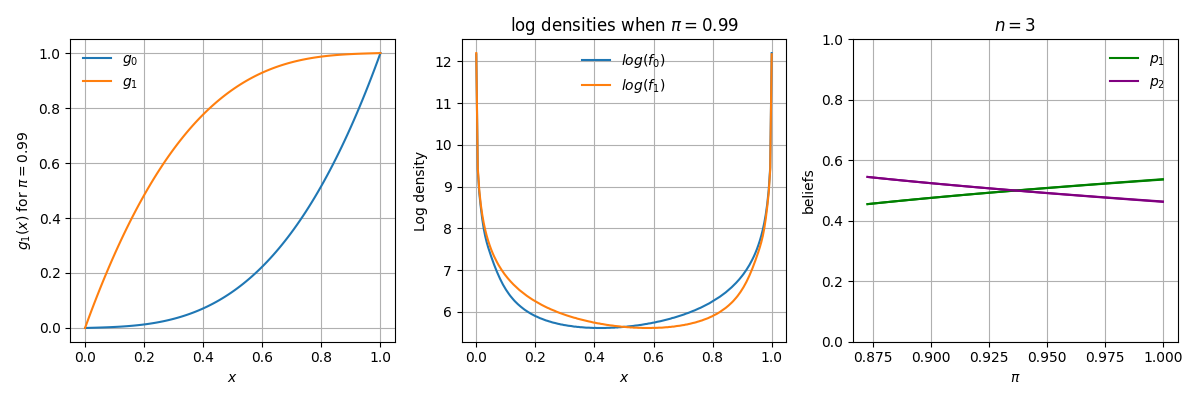
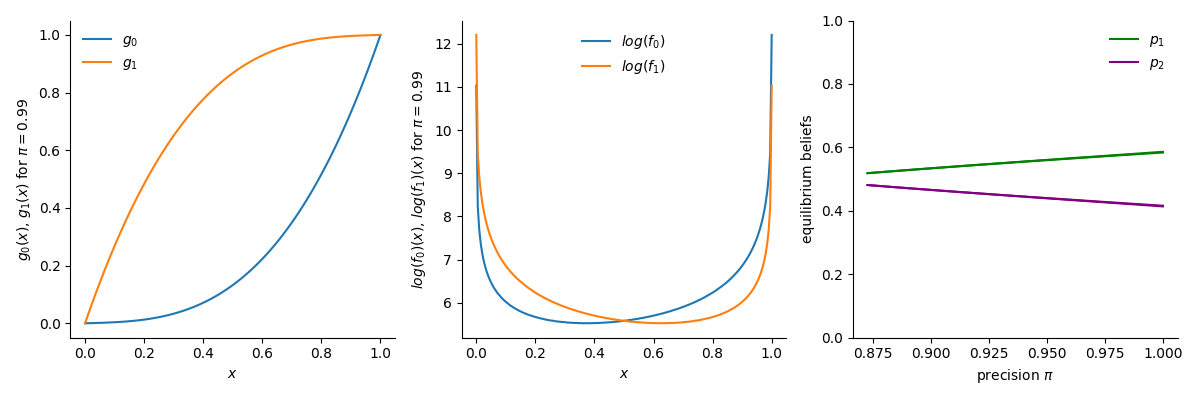
picture changes

diff --git a/PAPER equilibria n=3.py b/PAPER equilibria n=3.py
@@ -57,7 +57,7 @@ def payoffs(pi, alpha, beliefs):
     return payoffs
 
 equilibria = {pi:{alpha:payoffs(pi, alpha, beliefs[pi][alpha]) for alpha in profiles[pi]} for pi in profiles if pi < 1}
-test_cs = [0, 0.1]
+test_cs = [0, 0.1, 0.3]
 payoff = {c:{} for c in test_cs}
 for c in test_cs:
     for pi in equilibria:
@@ -79,11 +79,11 @@ for region in regions:
 colors, hatching, transparency = {}, {}, {}
 for region in regions:
     if region[1] == '0':
-        colors[region] = 'yellow'
-        transparency[region] = 1
+        colors[region] = 'green'
+        transparency[region] = 0.6
     else:
-        colors[region] = 'blue'
-        transparency[region] = 0.8
+        colors[region] = 'orange'
+        transparency[region] = 0.6
     if region[0] == '+':
         hatching[region] = '---'
     elif region[0] == '0':
@@ -91,34 +91,44 @@ for region in regions:
     else:
         hatching[region] = '|||'
 legend_elements = [
-    plt.Line2D([0], [0], marker='o', color='w', markerfacecolor='blue', markersize=10, label=f'$\\beta_0>0$'),
-    plt.Line2D([0], [0], marker='o', color='w', markerfacecolor='yellow', markersize=10, label=f'$\\beta_0=0$'),
+    plt.Line2D([0], [0], marker='o', color='w', markerfacecolor='orange', markersize=10, label=f'$\\beta(0)>0$'),
+    plt.Line2D([0], [0], marker='o', color='w', markerfacecolor='green', markersize=10, label=f'$\\beta(0)=0$'),
 ]
 legend_hatchings = [
-    Patch(facecolor='white', edgecolor='grey', label=f'$\\beta_1=1$'),
-    Patch(facecolor='white', edgecolor='grey', hatch='---', label=f'$\\beta_1<1$, $\\alpha_1 (1/2)=0$'),
-    Patch(facecolor='white', edgecolor='grey', hatch='|||', label=f'$\\beta_1<1$, $\\alpha_1 (1/2)=1$'),
+    Patch(facecolor='white', edgecolor='grey', label=f'$\\beta(1)=1$'),
+    Patch(facecolor='white', edgecolor='grey', hatch='---', label=f'$\\beta(1)<1$, $\\alpha(1, 1/2)=0$'),
+    Patch(facecolor='white', edgecolor='grey', hatch='|||', label=f'$\\beta(1)<1$, $\\alpha(1, 1/2)=1$'),
 ]
+fig, ax = plt.subplots(1, 2, figsize=(12, 5))
+
 for region in ebr:
     pis = list(phat_max_r[region].keys())
     max_vals = [phat_max_r[region][pi] for pi in pis]
     min_vals = [phat_min_r[region][pi] for pi in pis] 
-    plt.fill_between(pis, min_vals, max_vals, alpha=transparency[region], color = colors[region], hatch = hatching[region], edgecolor='grey')
-colors = {0:'red', 0.1:'purple'}
+    ax[0].fill_between(pis, min_vals, max_vals, alpha=transparency[region], color = colors[region], hatch = hatching[region], edgecolor='grey')
+    ax[1].fill_between(pis, min_vals, max_vals, alpha=0.8, facecolor = 'white', edgecolor='lightgrey')
+ax[0].set_ylabel("$\hat{p}$")
+ax[0].set_xlabel("$\pi$")
+legend1 = ax[0].legend(handles=legend_elements, loc='center left', frameon=False)
+legend2 = ax[0].legend(handles=legend_hatchings, loc='upper left', frameon=False)
+ax[0].add_artist(legend1)
+
+colors = {0:'blue', 0.1:'purple', 0.3:'red'}
+linestyle = {0:'-', 0.1:'--', 0.3:':'}
+
 for c in test_cs:
     x = list(payoff[c].keys())
     y = list(payoff[c].values())
-    plt.plot(x, y, ':', label=f'$c={c}$', color = colors[c])
-    plt.text(x[-1], y[-1], f'$c={c}$', va='center', color = colors[c])
+    ax[1].plot(x, y, ':', color = colors[c], linestyle = linestyle[c], label = f'$c={c}$')
+    #ax[1].text(x[-1], y[-1], f'$c={c}$', va='center', color = colors[c])
+ax[1].legend(loc='upper left', frameon=False)
+ax[1].set_ylabel("welfare")
+ax[1].set_xlabel("$\pi$")
 
-plt.ylabel("$\hat{p}$")
-plt.xlabel("$\pi$")
-ax = plt.gca()
-ax.spines['right'].set_visible(False)
-ax.spines['top'].set_visible(False)
-legend1 = plt.legend(handles=legend_elements, loc='upper left', frameon=False)
-ax.add_artist(legend1)
-plt.legend(handles=legend_hatchings, loc='upper right', frameon=False)
+for a in ax:
+    a.spines['right'].set_visible(False)
+    a.spines['top'].set_visible(False)
+
 plt.savefig(f'figures/equilibria n=3 regions.png')
 plt.show()
 

diff --git a/PAPER belief bounds.py b/PAPER belief bounds.py
@@ -97,8 +97,8 @@ def generate_plots(n=3, pi_show = 0.9, alpha = False):
     #Draw transition functions
     f = 0
     axs[f].set_xlabel('$x$')
-    axs[f].set_ylabel(f'$g_1(x)$ for $\pi={pi_show:.2f}$')
-    axs[f].grid()
+    axs[f].set_ylabel(f'$g_0(x)$, $g_1(x)$ for $\pi={pi_show:.2f}$')
+    axs[f].grid(False)
     axs[f].plot(np.linspace(epsilon, 1-epsilon, n_grid), 1-g_1(1-np.linspace(epsilon, 1-epsilon, n_grid), pi=pi_show, n=n), label = f'$g_0$')
     axs[f].plot(np.linspace(epsilon, 1-epsilon, n_grid), g_1(np.linspace(epsilon, 1-epsilon, n_grid), pi=pi_show, n=n), label = f'$g_1$')
     axs[f].legend(loc='best', frameon=False)
@@ -106,19 +106,17 @@ def generate_plots(n=3, pi_show = 0.9, alpha = False):
     #Draw densities
     f = 1
     axs[f].set_xlabel('$x$')
-    axs[f].set_ylabel('Log density')
-    axs[f].grid()
-    axs[f].set_title(f'log densities when $\pi={pi_show}$')
+    axs[f].set_ylabel(f'$log(f_0)(x)$, $log(f_1)(x)$ for $\pi={pi_show:.2f}$')
+    axs[f].grid(False)
     axs[f].plot(np.linspace(delta, 1-delta, no_bins), d0, label='$log(f_0)$')
     axs[f].plot(np.linspace(delta, 1-delta, no_bins), d1, label='$log(f_1)$')
     axs[f].legend(loc='best', frameon=False)
 
     #Draw beliefs
     f = 2
-    axs[f].set_xlabel('$\pi$')
-    axs[f].set_ylabel('beliefs')
-    axs[f].grid()
-    axs[f].set_title(f'$n={n}$')
+    axs[f].set_xlabel('precision $\pi$')
+    axs[f].set_ylabel('equilibrium beliefs')
+    axs[f].grid(False)
     axs[f].set_ylim(0,1)
     p_min = {k:[ranges[pi][k][0] for pi in pis] for k in range(1,n)}
     p_max = {k:[ranges[pi][k][1] for pi in pis] for k in range(1,n)}
@@ -129,16 +127,20 @@ def generate_plots(n=3, pi_show = 0.9, alpha = False):
         axs[f].plot(pis, p_max[k], color=color)
         axs[f].fill_between(pis, p_min[k], p_max[k], alpha=0.5, facecolor=color)
     axs[f].legend(loc='best', frameon=False)
+
+    for a in axs:
+        a.spines['right'].set_visible(False)
+        a.spines['top'].set_visible(False)
         
     return fig, axs
 
 
 pi_show = 0.99
-alpha = 0.2
+alpha = 0
 for n in [3]:
     fig, axs = generate_plots(n=n, pi_show = pi_show, alpha = alpha)
     plt.tight_layout()
-    plt.savefig(f'figures/belief_bounds n={n} alpha={alpha}.png')
+    plt.savefig(f'figures/belief_bounds n={n}.png')
     #plt.show()
 
 
